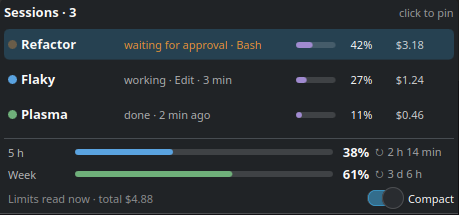
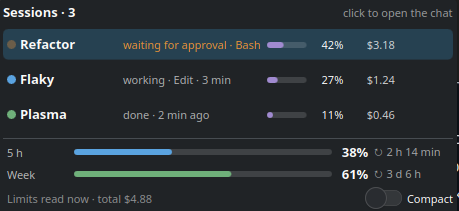
Open the session's chat by clicking its row; pin with a button

diff --git a/plasmoid/contents/ui/main.qml b/plasmoid/contents/ui/main.qml
@@ -140,6 +140,21 @@ PlasmoidItem {
             root.now = Date.now();
         }
     }
+    // Opens the session's chat in the Claude desktop app. The app's deep link takes its own id
+    // (local_…), found by the session file that holds our CLI session id; runs only on a click.
+    // Terminal sessions have no such file, and nothing opens.
+    P5Support.DataSource {
+        id: launcher
+        engine: "executable"
+        onNewData: (source, data) => disconnectSource(source)
+    }
+    function openChat(id) {
+        if (!/^[0-9a-f-]{36}$/.test(id || "")) return;
+        launcher.connectSource("f=$(grep -rlE --include='local_*.json' '\"cliSessionId\": *\"" + id + "\"' \"$HOME/.config/Claude/claude-code-sessions\" 2>/dev/null | head -1); "
+            + "[ -n \"$f\" ] && xdg-open \"claude://code/continue?session=$(basename \"$f\" .json)&source=claudbar\"; true");
+        root.expanded = false;
+    }
+
     // One awk process per read: each file as one JSON line.
     function readFiles() { exec.connectSource("awk 1 '" + dir + "'/sessions/*.json '" + dir + "/usage.json' 2>/dev/null"); }
     // Once at start: remove session files older than a week.
@@ -292,7 +307,7 @@ PlasmoidItem {
             Item { Layout.fillWidth: true }
             PlasmaComponents3.Label {
                 visible: root.listed.length > 0
-                text: root.picked !== "" && !!root.lead && root.lead.id === root.picked ? T.tr("pinned · click to unpin") : T.tr("click to pin")
+                text: T.tr("click to open the chat")
                 opacity: 0.55
                 font: Kirigami.Theme.smallFont
             }
@@ -307,16 +322,17 @@ PlasmoidItem {
                 readonly property real unit: Kirigami.Units.gridUnit
                 Layout.fillWidth: true
                 Layout.preferredHeight: unit * 1.7
+                readonly property bool pinned: root.picked !== "" && root.picked === item.id
                 hoverEnabled: true
                 cursorShape: Qt.PointingHandCursor
-                onClicked: root.pick(item.id)
+                onClicked: root.openChat(item.id)
 
                 Rectangle {
                     anchors.fill: parent
                     radius: Kirigami.Units.cornerRadius
                     color: Kirigami.Theme.highlightColor
                     opacity: entry.current ? 0.22 : entry.containsMouse ? 0.1 : 0
-                    border.width: entry.current && root.picked === entry.item.id ? 1 : 0
+                    border.width: entry.pinned ? 1 : 0
                     border.color: Kirigami.Theme.highlightColor
                 }
                 PlasmaComponents3.ToolTip { text: entry.item.project + " · " + root.modelName(entry.item.model); visible: entry.containsMouse && !edit.visible }
@@ -376,7 +392,19 @@ PlasmoidItem {
                         font: Kirigami.Theme.smallFont
                         opacity: 0.8
                     }
-                    // Always in the layout, visible only under the cursor: the row keeps its width.
+                    // Buttons stay in the layout and only fade in, so the row keeps its width.
+                    PlasmaComponents3.ToolButton {
+                        icon.name: "window-pin"
+                        display: PlasmaComponents3.AbstractButton.IconOnly
+                        text: entry.pinned ? T.tr("Unpin from the panel") : T.tr("Pin to the panel")
+                        checkable: true
+                        checked: entry.pinned
+                        Layout.preferredWidth: Kirigami.Units.iconSizes.small + Kirigami.Units.smallSpacing * 2
+                        Layout.preferredHeight: Layout.preferredWidth
+                        opacity: entry.pinned || entry.containsMouse || hovered ? 1 : 0
+                        onClicked: root.pick(entry.item.id)
+                        PlasmaComponents3.ToolTip { text: parent.text }
+                    }
                     PlasmaComponents3.ToolButton {
                         icon.name: "edit-rename"
                         display: PlasmaComponents3.AbstractButton.IconOnly

diff --git a/plasmoid/contents/ui/tr.js b/plasmoid/contents/ui/tr.js
@@ -14,8 +14,9 @@ var catalogs = {
         "5 h": "5 h",
         "Week": "Tydzień",
         "Sessions · %1": "Sesje · %1",
-        "pinned · click to unpin": "przypięta · kliknij, by odpiąć",
-        "click to pin": "kliknij, by przypiąć",
+        "click to open the chat": "kliknij, by otworzyć czat",
+        "Pin to the panel": "Przypnij na pasku",
+        "Unpin from the panel": "Odepnij z paska",
         "Rename": "Zmień nazwę",
         "Limits read %1": "Odczyt limitów %1",
         "total %1": "razem %1",

diff --git a/README.md b/README.md
@@ -13,7 +13,7 @@ A KDE Plasma 6 panel widget that shows what your Claude Code sessions are doing:
 - **Dots**: one per session. Blue means working, orange (blinking) means waiting for your approval, green means done. Finished sessions fade out after 5 minutes; the latest one stays. Click a dot to show that session on the panel.
 - **The session on the panel**: its name, state and current tool (`working · Bash · 2 min`), context window usage and cost. By default it shows the most urgent session (approval, then work, then the latest).
 - **Limits**: the plan's 5-hour and weekly usage with time to reset.
-- **The list** (click the bar): sessions active in the last 10 minutes, at least 3. Click a row to pin that session to the panel, click again to unpin. Hover a row and use the pencil to give it a short name. The **Compact** switch at the bottom hides the bars on the panel and keeps only the percentages (coloured when they pass 80%).
+- **The list** (click the bar): sessions active in the last 10 minutes, at least 3. Click a row to open that chat in the Claude desktop app (through its `claude://code/continue` link; terminal sessions have no chat to open). The buttons on the right of a row pin the session to the panel (click again to unpin) and give it a short name. The **Compact** switch at the bottom hides the bars on the panel and keeps only the percentages (coloured when they pass 80%).
 
 Session names come from the conversation's title (its first meaningful word), or the project folder when there is no title yet.
 
